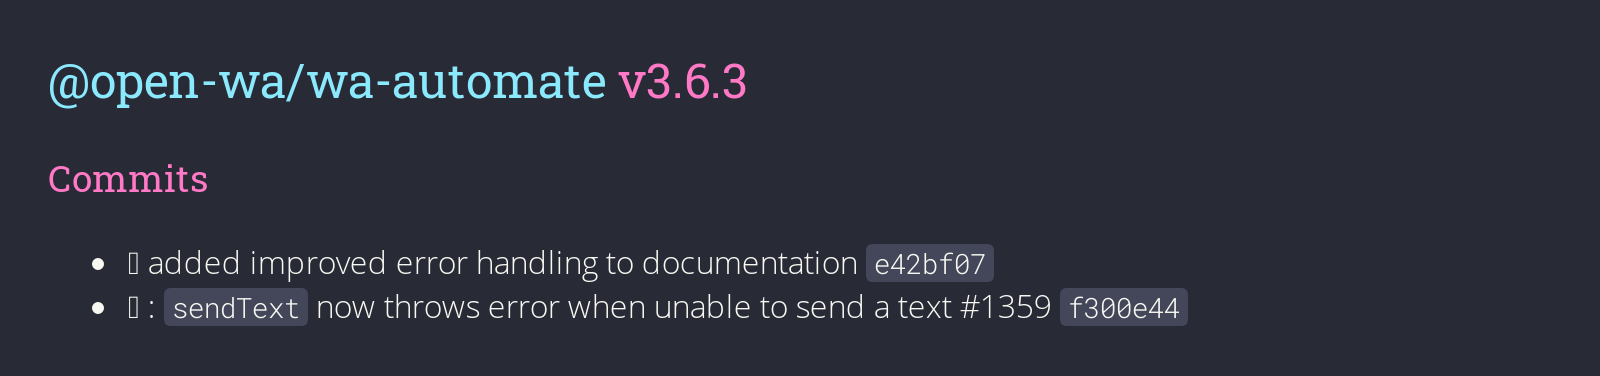
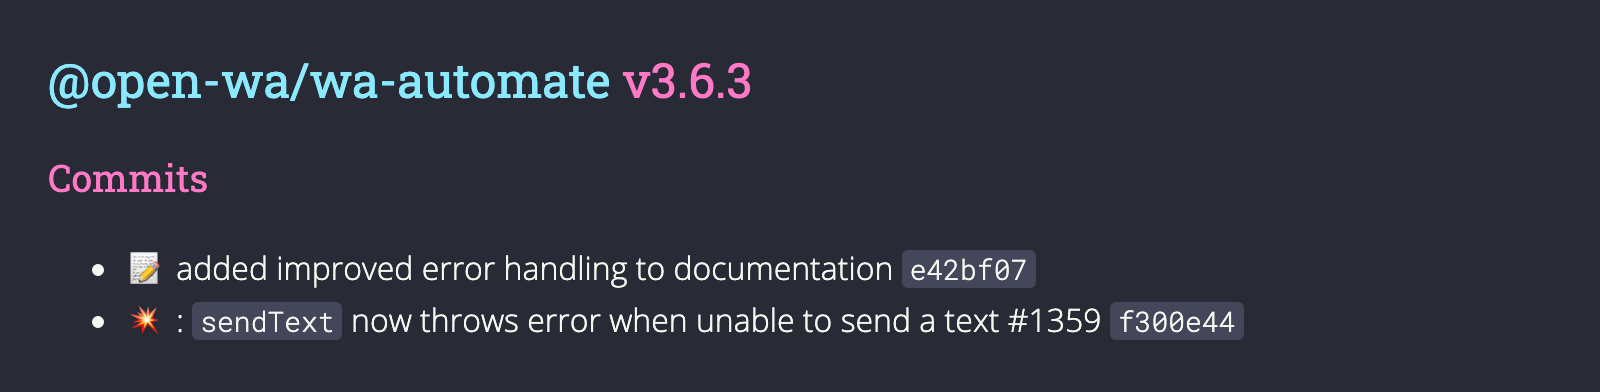
💚  emojis fixed in release image changelog

diff --git a/release-image.js b/release-image.js
@@ -20,6 +20,7 @@ const puppeteer = require("puppeteer");
 const fs = require("fs");
 const util = require("util");
 const path = require("path");
+const emoji = require('node-emoji')
 const readFile = util.promisify(fs.readFile);
 const optionDefinitions = [
     { name: 'file', type: String, defaultOption: true },
@@ -29,6 +30,10 @@ const stripMarkdown = (text) => {
     var str = String(text).replace(/__|\*|\#|(?:\[([^\]]*)\]\([^)]*\))/gm, '$1');
     return str;
 };
+
+const injectEmojis = (body) => {
+  return emoji.emojify(body)
+}
 
     // colors taken from https://github.com/dracula/dracula-theme
 const html = (body,packageName,release) => `
@@ -66,8 +71,8 @@ const html = (body,packageName,release) => `
         </style>
       </head>
       <body>
-        <h2><span class="name">${packageName}</span> ${stripMarkdown(release.title)}</h2>
-        ${body}
+        <h2><span class="name">${packageName}</span> ${stripMarkdown(injectEmojis(release.title))}</h2>
+        ${injectEmojis(body)}
       </body>
     </html>
   `;
